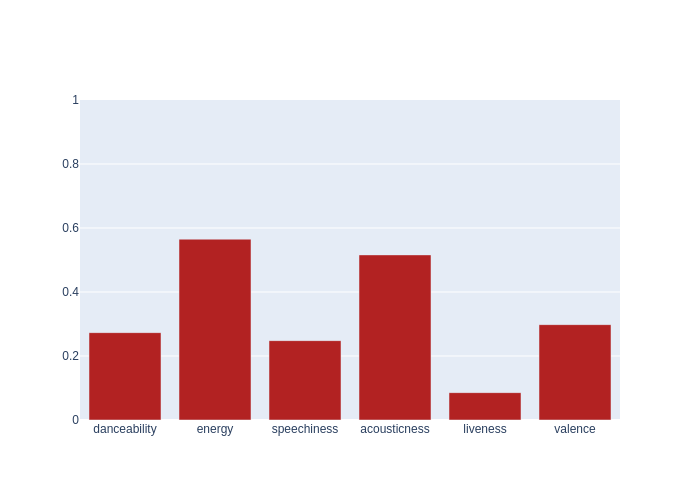
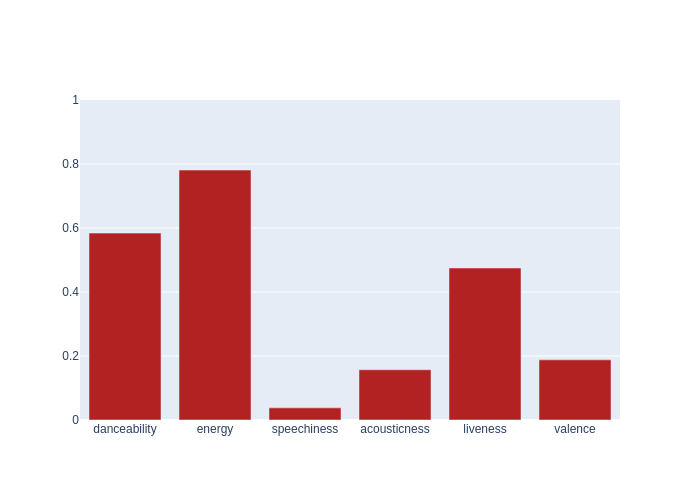
Automated README update

Changed region(s): [[0.36, 0.51, 0.87, 0.84], [0.12, 0.33, 0.36, 0.69]]

diff --git a/README.md b/README.md
@@ -4,7 +4,7 @@ Automated music metrics for fun, updated hourly.
 
 ## Spotify
 
-- currently listening to **BETWEEN FRIENDS - affection**
+- currently listening to **12AM - Drugs (I Feel Like Dying)**
 
 - **3099** liked songs
 - **33** playlists
